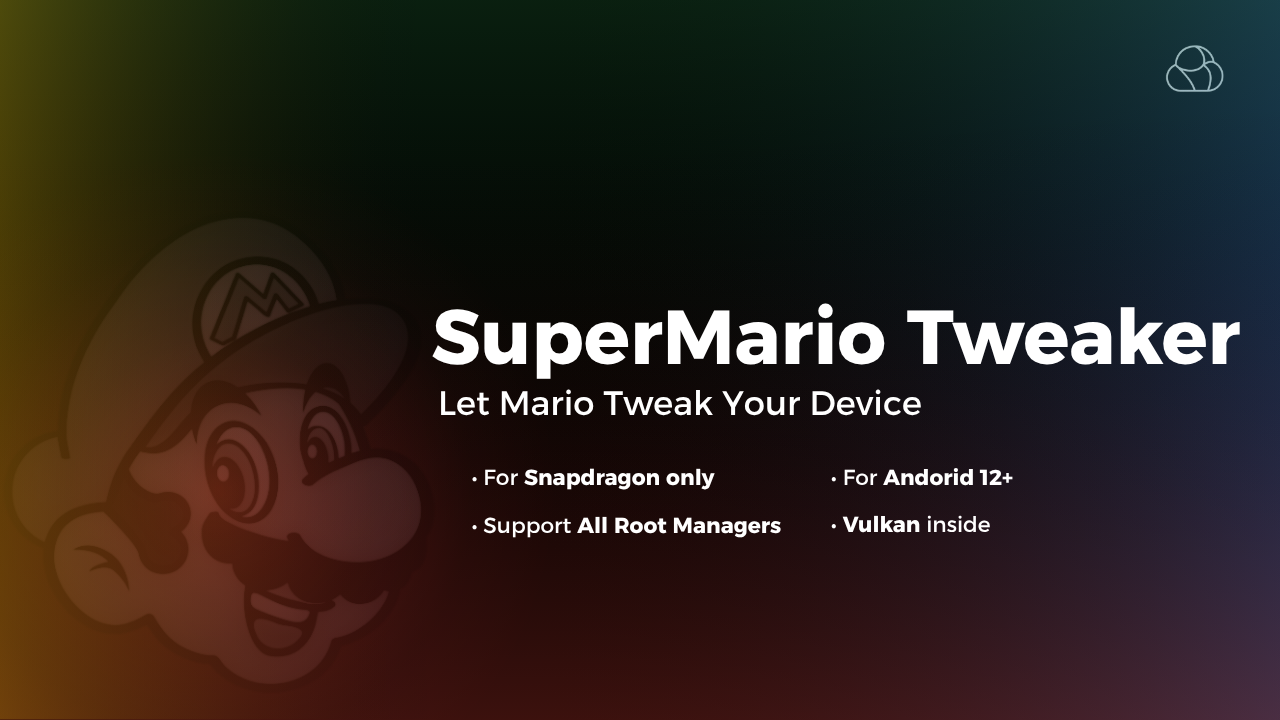
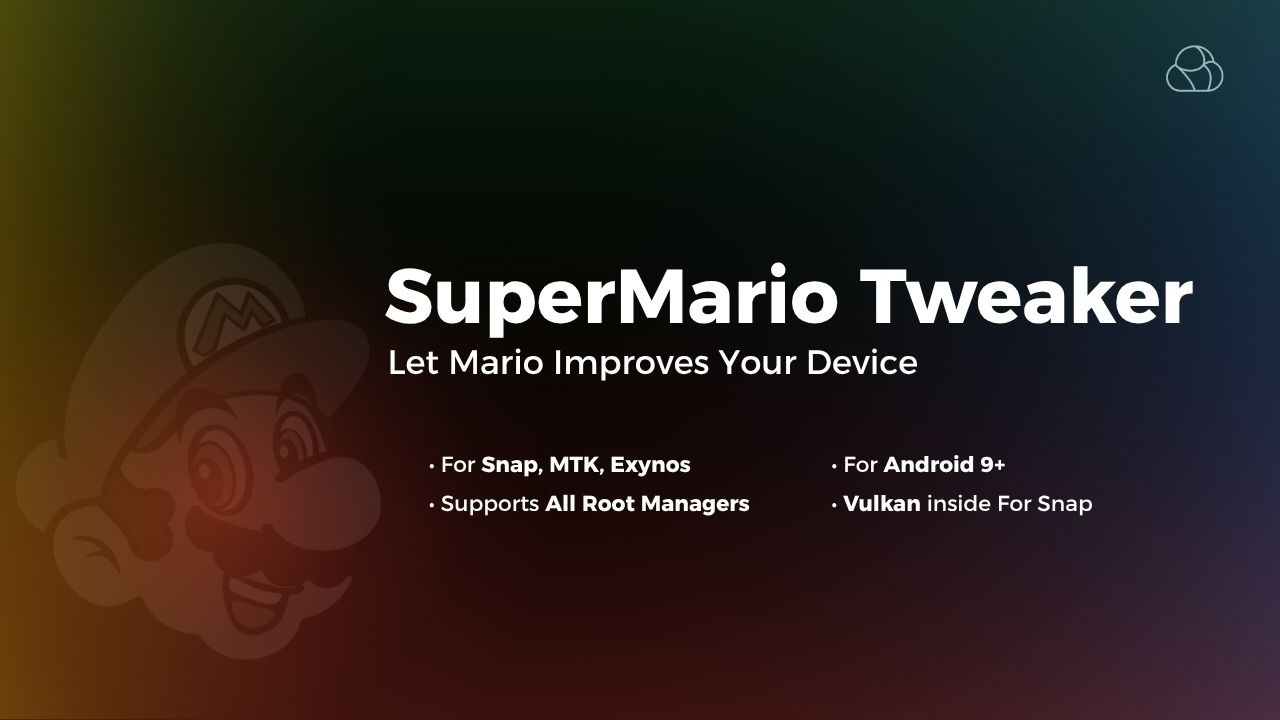
v3.0.0

diff --git a/changelog.md b/changelog.md
@@ -1,158 +1,3 @@
-# SuperMario Tweaker v2.3.0 - Changelog
+# SuperMario Tweaker v3.0.0 - Exynos
 
-### 🔄 Updates:
-- Update Vulkan Version to `v25.1.3`
-- Add `Clear Cache` at action button
-- Readd old tweaks from `v2.0.1`
-- Minimalistic installation UI
-- New thumbnail
-- Add `SuperMarioTweaker-Banner` and `SMTW-Banner.jpg` at one folder `assets`
-
-### 🆕 Adds:
-
-### New Tweaks From La Flame:
-- 🧠 Memory Management Tweaks
-Optimizes memory usage by prioritizing important apps and allowing the system to kill unimportant background apps more aggressively.
-
-- ⚙ CPU Scheduling Tweaks
-Reduces delays when switching apps and improves responsiveness by adjusting CPU-related behaviors.
-
-- ☕ ART/Dalvik VM Tweaks
-Enhances app performance by optimizing how the Android Runtime compiles and runs applications.
-
-- 🖼 Graphics & Rendering Tweaks
-Improves graphics performance and increases frame rates (FPS) by disabling VSync and enabling faster rendering techniques.
-
-- 📊 Profiler and Debugging Tweaks
-Disables system profiling, logging, and debugging tools to reduce background load and improve privacy.
-
-- 📦 Vendor-Specific Tweaks
-Disables features like MemoryPlus that emulate virtual RAM, which may slow down devices that already have sufficient physical RAM.
-
-<br />
-
-# SuperMario Tweaker v2.2.0 - Changelog 
-
-🔄Updates:
-- Add `action button` to clear GPU cache
-- Clean unnecessary tweaks in SuperMario-Tweaker.sh script
-- Change how module work
-- improvements here and there
-
-🛠Fixes:
-- Touch & Input
-  - Removed fine-tuned touch calibrations: pressure scaling, size scaling/bias, distance calibration and scaling.
-  - Removed limits on multitouch event rate (windowsmgr.max_events_per_sec).
-  - These affect touch sensitivity, accuracy, and UI responsiveness.
-
-- GPU & Graphics:
-  - Removed increased GPU buffer count (debug.egl.buffcount=4) which can improve frame buffering.
-  - Removed several SurfaceFlinger optimizations like disabling crop recompute and backpressure.
-  - Removed disabling of partial invalidates (debug.hwui.render_dirty_regions=false), impacting rendering efficiency.
-
-- Vsync and Frame Sync:
-  - Removed disabling of vsync (debug.hwui.disable_vsync=true and debug.cpurend.vsync=false) to reduce screen tearing and improve frame timing.
-  - Removed swap interval tweaks (debug.egl.swapinterval=0 and debug.gr.swapinterval=0) affecting frame pacing.
-
-- System Stability and Memory:
-  - Removed disabling of killing resource-heavy tasks (debug.kill_allocating_task=0) which helps free memory.
-  - Removed disabling process limit (ENFORCE_PROCESS_LIMIT=false), avoiding system overload.
-
-- Visual Quality:
-  - Removed disabling of dithering and MSAA forcing, which can degrade visual quality.
-
-- Gaming & Display:
-  - Removed disabling of Game Mode (persist.sys.game.turbo=0), potentially reducing gaming performance boosts.
-  - Removed forced 120Hz refresh rate and dynamic FPS settings, which save battery but can limit smoothness.
-
-# SuperMario Tweaker V2.1.0 - Changelog
-- Delete unnecessary tweaks to fix bootloop for some devices
-- Delete thermel controller and powerhint (Not needed anymore)
-- Turnip (Vulkan driver) upgraded to Mesa 25.1.1, synced with latest upstream changes.
-- Delete CPU & GPU spoofing to prevent bugs "especially with camera"
-- Fixes here and there
-- New Banner :)
-
-# SuperMario Tweaker V2.0.1 - Changelog
-- Delete wrong " from customize.sh to fix installation process
-
-# SuperMario Tweaker V2.0.0 - Changelog
-
-### Fixes & Updates
-- Delete duplicated lines in system.prop
-- Clean code (thanks to @ZG089)
-- Delete DT module automatically if detected (thanks to @ZG089)
-- Improved installation UI (thanks to @ZG089)
-- Delete unnecessary audio, Dalvik, logging, and network tweaks
-- Removed duplicate `build.prop` entries
-- Reorganized tweaks for better structure
-- Update update.json (to update module from root manager in next updates)
-- Update Mesa Turnip to v25.1.0
-
-
-## New Additions
-
-### SuperMario-Tweaker.sh Script
-- Full device idle mode and aggressive battery optimizations.
-- System settings tuning (freeform windows, color enhancements).
-- Dynamic Dalvik VM & HWUI adjustments based on RAM.
-- App background restriction for bloatware and telemetry apps.
-- System clean-up on execution (Dalvik cache wipe).
-
-### Powerhint.xml Configurations
-(This file is used to control CPU and memory performance for specific tasks, like using the camera or recording videos at different frame rates. It tells the system when to boost CPU speed, keep performance high, or optimize memory, to make sure everything runs smoothly.)
-
-- Optimizations for 30FPS, 60FPS, and HFR video modes.
-- CPU core scheduling and frequency boosting.
-- Bandwidth and memory access optimizations.
-- Target-specific tuning (bengal, scuba, khaje).
-
-## Gaming Performance Enhancements
-- CPU bandwidth control and high CPU frequency locking.
-- Game Mode activation for boosted performance.
-- Dynamic CPU, RAM, GPU frequency adjustments.
-- Stable 120 FPS support and game rendering prioritization.
-- Ultra and Balanced Performance Modes selectable.
-
-## Performance Improvements
-- Enabled high-performance CPU/GPU modes.
-- App launch acceleration with usap_pool.
-
-## Battery Optimizations
-- Fine-tuned power-saving features.
-- Sleep mode enhancements for radios and sensors.
-
-## Display and Graphics Enhancements
-- Forced GPU rendering and SurfaceFlinger tuning.
-- Improved FPS, animation smoothness, and graphics acceleration.
-
-## Game Mode and High FPS
-- Locked display to 120Hz refresh for games.
-- Disabled dynamic FPS scaling for stability.
-
-## Touch and Input Optimizations
-- Faster touch response and increased fling velocity.
-- Improved calibration for touch accuracy.
-
-## RAM and Memory Management
-- Enabled zRAM compression.
-- Adjusted cached apps limit for better multitasking.
-
-## System Tweaks
-- Faster app launches via IORAPD prefetching.
-- Optimized background process handling.
-
-## Snapdragon-Specific Enhancements
-- Qualcomm display and rendering optimizations.
-- Forced hardware acceleration.
-
-## UI and Visual Smoothness
-- OLED panel optimizations.
-- Reduced frame drops and smoother animations.
-
-## Hardware Composition Changes
-- Enabled dynamic CPU-GPU composition.
-
-## Stability and Performance Improvements
-- Removed redundant logs and services.
-- Improved RAM usage and responsiveness.
+### First Compatible Verison For Exynos

diff --git a/README.md b/README.md
@@ -50,13 +50,13 @@
 
 ## 📌 System Requirements
 
-- Android 9 or higher (Recommended: Android 13–14)
+- Android 9 or higher
 - Compatible with Magisk / KernelSU / APatch  
 
 ## ❓ FAQ
 
 **Q:** Will this work on all Android versions?  
-**A:** Yes, but Android 13–14 (SDK 33/34) is recommended.
+**A:** Yes, But Android 9+ is recommended.
 
 **Q:** Can I use this with other tweak modules?  
 **A:** Not recommended. Conflicts may happen, especially with DT Modules or anything that modifies props or thermal settings.
@@ -70,6 +70,12 @@
 
 **Developed & maintained by:** MRX7014
 
-**Special thanks to**: [@ZG089](https://github.com/ZG089)
+**Special thanks to**: 
+[@ZG089](https://github.com/ZG089) For His Development and Fixes
+[@LaFlame](https://t.me/@LaFlameA1) For His Tweaks For Snapdragon Version
+[@Omar](https://t.me/@helicopterr_helicopterr) For His Tweaks For MediaTek Verison
+**And All Testers**
+
+---
 
 For updates and support, join our Telegram channel: **[@MRX7014Cloud](https://t.me/MRX7014Cloud)**
